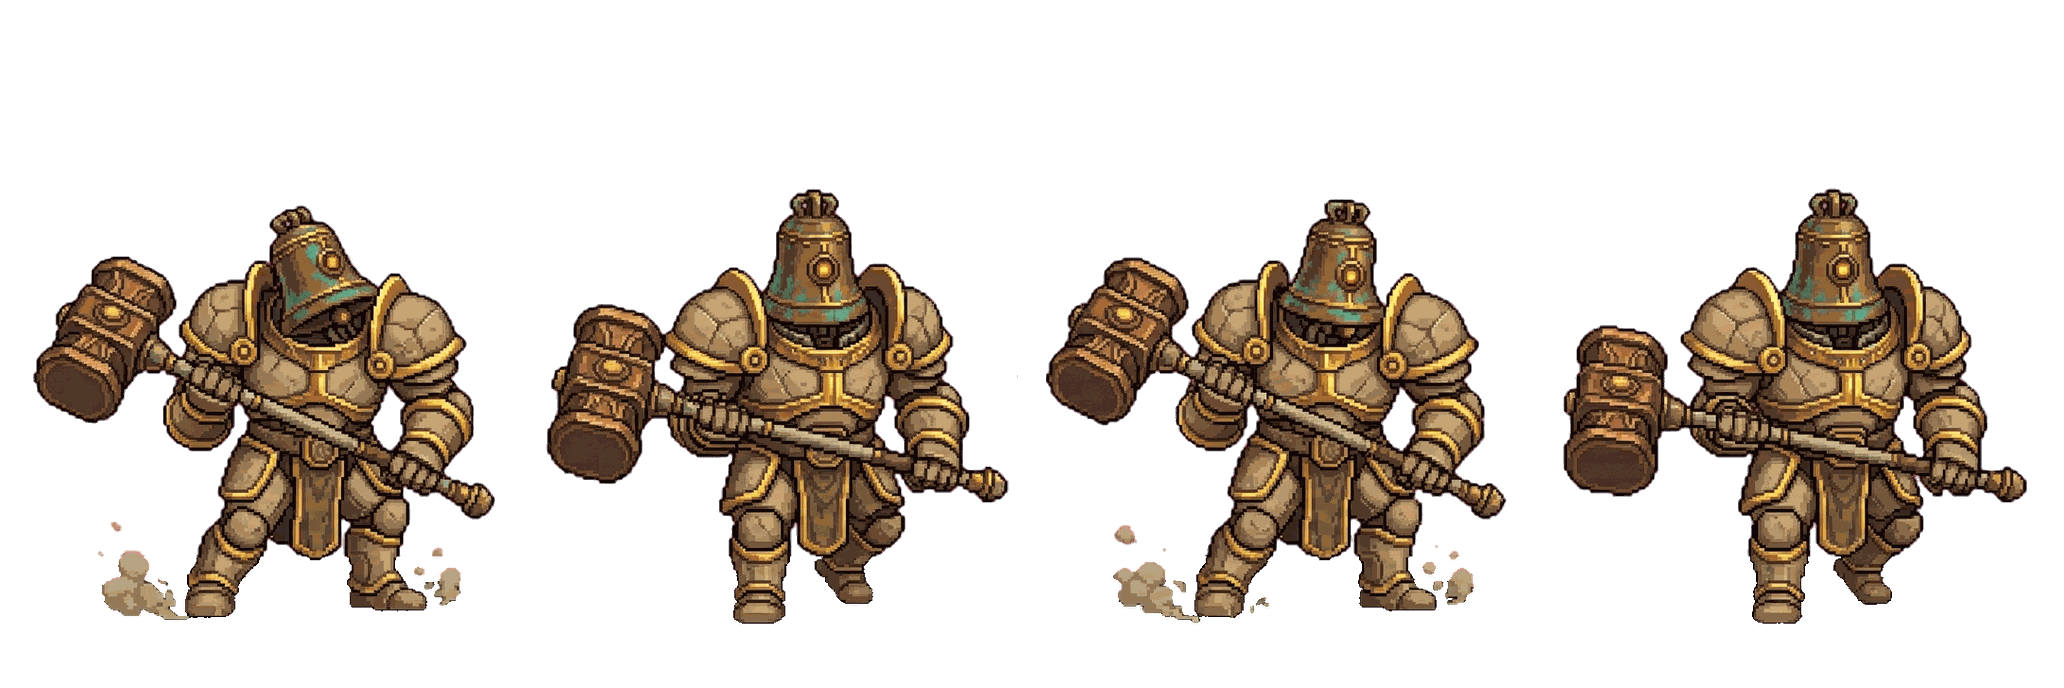
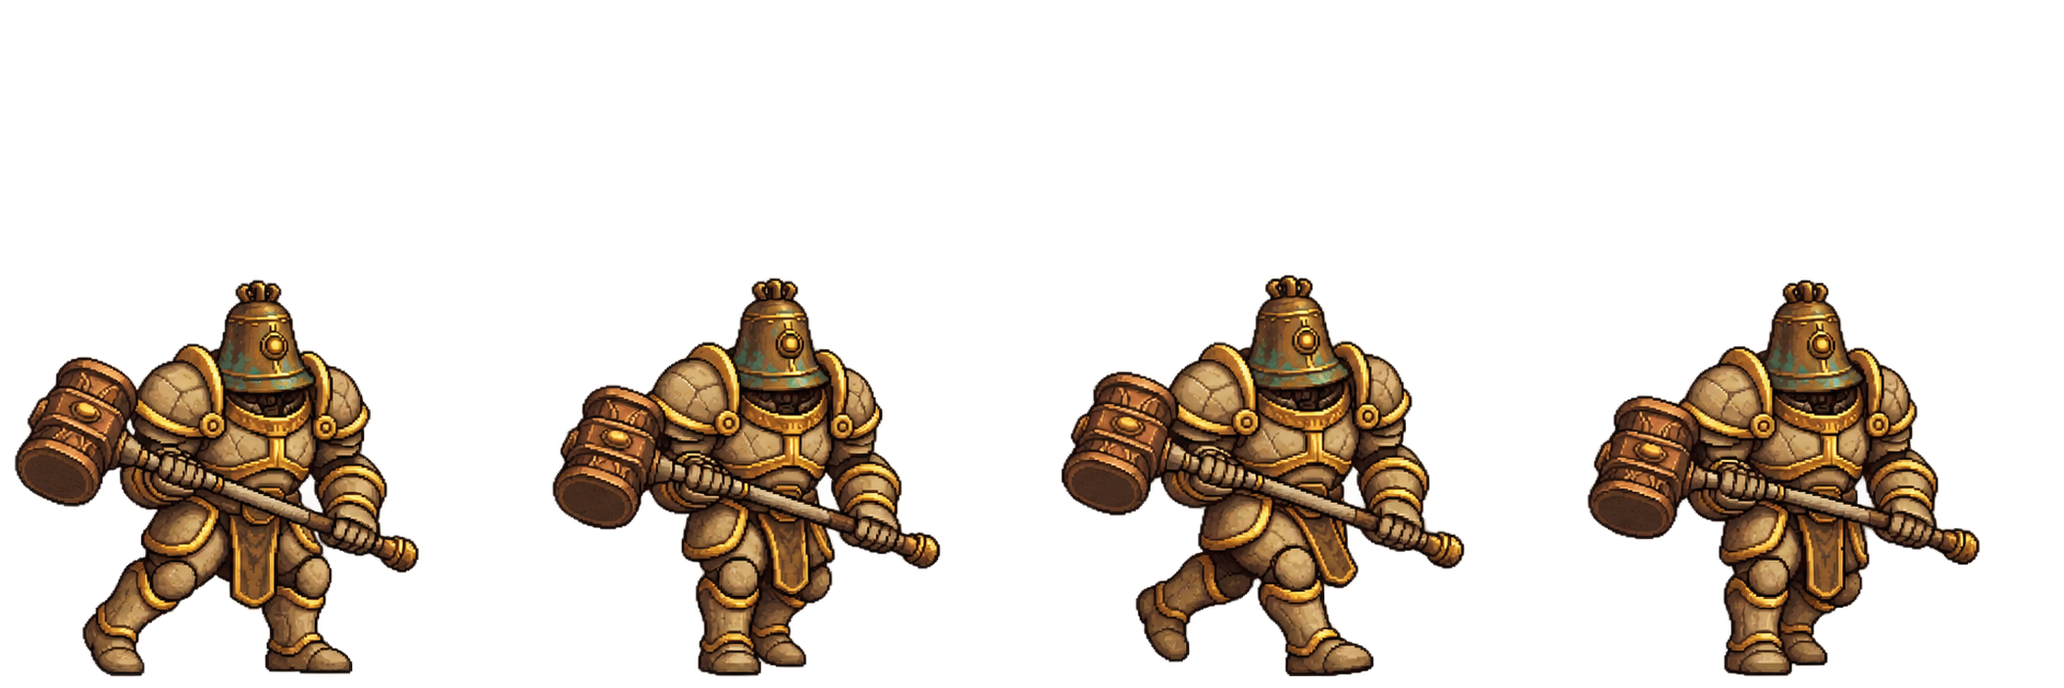
Round 274: the Noon Toller walks (#54)
Claude-Session: https://claude.ai/code/session_01XB2RMCaJ1aVVtBjSNk3FhS

diff --git a/assets/elaris-wildlife.js b/assets/elaris-wildlife.js
@@ -10,7 +10,7 @@ const ELARIS_WILDLIFE={
  stormMoth:{name:'Dust Devil',icon:'≋',hp:52,attack:9,element:'air',sheet:'dust-devil',cycle:'.8s'}, // Round 272: the owner's eight-frame spin (four frames used)
  // Round 22 mini-bosses (own sheets since Round 195).
  tidewardenElaris:{name:'The Cistern Warden',icon:'≈',hp:70,attack:11,armor:3,element:'water',sheet:'cistern-warden',cycle:'1.4s',boss:true,miniBoss:true},
- galeSovereign:{name:'The Noon Toller',icon:'🔔',hp:66,attack:11,armor:3,element:'air',sheet:'noon-toller',cycle:'1.2s',boss:true,miniBoss:true}
+ galeSovereign:{name:'The Noon Toller',icon:'🔔',hp:66,attack:11,armor:3,element:'air',sheet:'noon-toller',cycle:'.8s',boss:true,miniBoss:true} // Round 274: the owner's eight-frame walk (four frames used)
 };
 Object.assign(enemies,ELARIS_WILDLIFE);
 // Round 172: art-only keys for the old forest sheets. Vespera and Chronospire recolor these,
@@ -45,7 +45,7 @@ const cityMonsterArt=monsterArt;
 // Round 196: a sheet name with a folder ('sky/zenith-roc') is read from assets/monsters/<folder>/;
 // big:true draws it in the larger boss box.
 // Round 200: bump SPRITE_VERSION when sheets are re-cut, so browsers fetch the new images.
-const SPRITE_VERSION='273';
+const SPRITE_VERSION='274';
 function wildlifeSheetUrl(sheet){return 'assets/monsters/'+(sheet.includes('/')?sheet:'elaris/'+sheet)+'.png?v='+SPRITE_VERSION}
 monsterArt=function(id){const animal=ELARIS_WILDLIFE[id]||WILDLIFE_ART[id];if(!animal)return cityMonsterArt(id);return '<span class="monster-sprite wildlife-sprite'+(animal.big?' bloom-tyrant':'')+'" role="img" aria-label="'+animal.name+'" style="background-image:url('+wildlifeSheetUrl(animal.sheet)+');--wildlife-cycle:'+animal.cycle+'"></span>'};
 // Round 249: a boss node's sprite box was square (142px, sized for Neon Aftermath's boss pictures), which

diff --git a/index.html b/index.html
@@ -551,7 +551,7 @@ if(localStorage.getItem(SAVE_KEY))$('resumeBtn').classList.remove('hidden');
 addEventListener('resize',()=>{fitWorld();fitMap();renderTalentConnectors()});fitWorld();
 requestAnimationFrame(loop);
 </script>
-<script src="assets/elaris-wildlife.js?v=round273"></script>
+<script src="assets/elaris-wildlife.js?v=round274"></script>
 <script src="assets/solaris-data.js?v=round232"></script>
 <script src="assets/expansion.js?v=round265"></script>
 <script src="assets/encounter-depth.js?v=round246"></script>

diff --git a/CHANGES.md b/CHANGES.md
@@ -3496,6 +3496,15 @@ Playtest of Neon Aftermath's three relics (Moon Lens 5,4; Ember Sigil 5,7; Briar
 - Talent descriptions list the per-rank values. Tests updated: round76, chronospire,
   talent-matrix, card-variety, plating-armor.
 
+## Round 274: the Noon Toller walks
+
+- The owner sent an eight-frame walk for Solaris's mini-boss, the Noon Toller (`galeSovereign`). It holds its hammer
+  in both hands. The source strip is `assets/monsters/elaris/src/noon-toller-walk8.png`.
+- The owner anchored every frame on the upper body with the feet on one baseline, so frames 1, 3, 5 and 7 are cut
+  with one shared window, as for the Dust Devil and Data Wisp. The result is `assets/monsters/elaris/noon-toller.png`
+  (replacing the old sheet), then padded. The cycle is .8s, down from 1.2s, to match the owner's timing.
+- `SPRITE_VERSION` 274. New `tests/noon-toller.test.cjs`.
+
 ## Round 273: the Data Wisp orbits
 
 - The owner sent an eight-frame orbit for Neon Aftermath's Data Wisp (`cryptWisp`): bronze fragments circling a steady

diff --git a/CLAUDE.md b/CLAUDE.md
@@ -4,7 +4,7 @@ Aethercede is a browser card-battler/exploration game in vanilla JS with no
 build step. Open `index.html` directly. `compendium.html` is the card
 gallery; `arena.html` is a standalone prototype and is left untouched.
 
-**Read `CHANGES.md` first.** Every round of work (Round 1 to Round 273) is
+**Read `CHANGES.md` first.** Every round of work (Round 1 to Round 274) is
 logged there with its reasoning. Add a new `## Round N:` entry for each
 change set.
 
